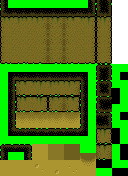
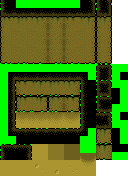
Rationalised the dungeon tile set.
git-svn-id: http://rpg-world.googlecode.com/svn/trunk@22 b611d880-fc3a-11dd-a7be-4b3ef3b0700c

diff --git a/game/src/rpg/map.py b/game/src/rpg/map.py
@@ -118,7 +118,9 @@ class TileSet:
         self.tiles = tiles
 
     def getTile(self, name):
-        return self.tiles[name]
+        if name in self.tiles:
+            return self.tiles[name]
+        return None
     
 """
 Represents a single tile on an RpgMap.
